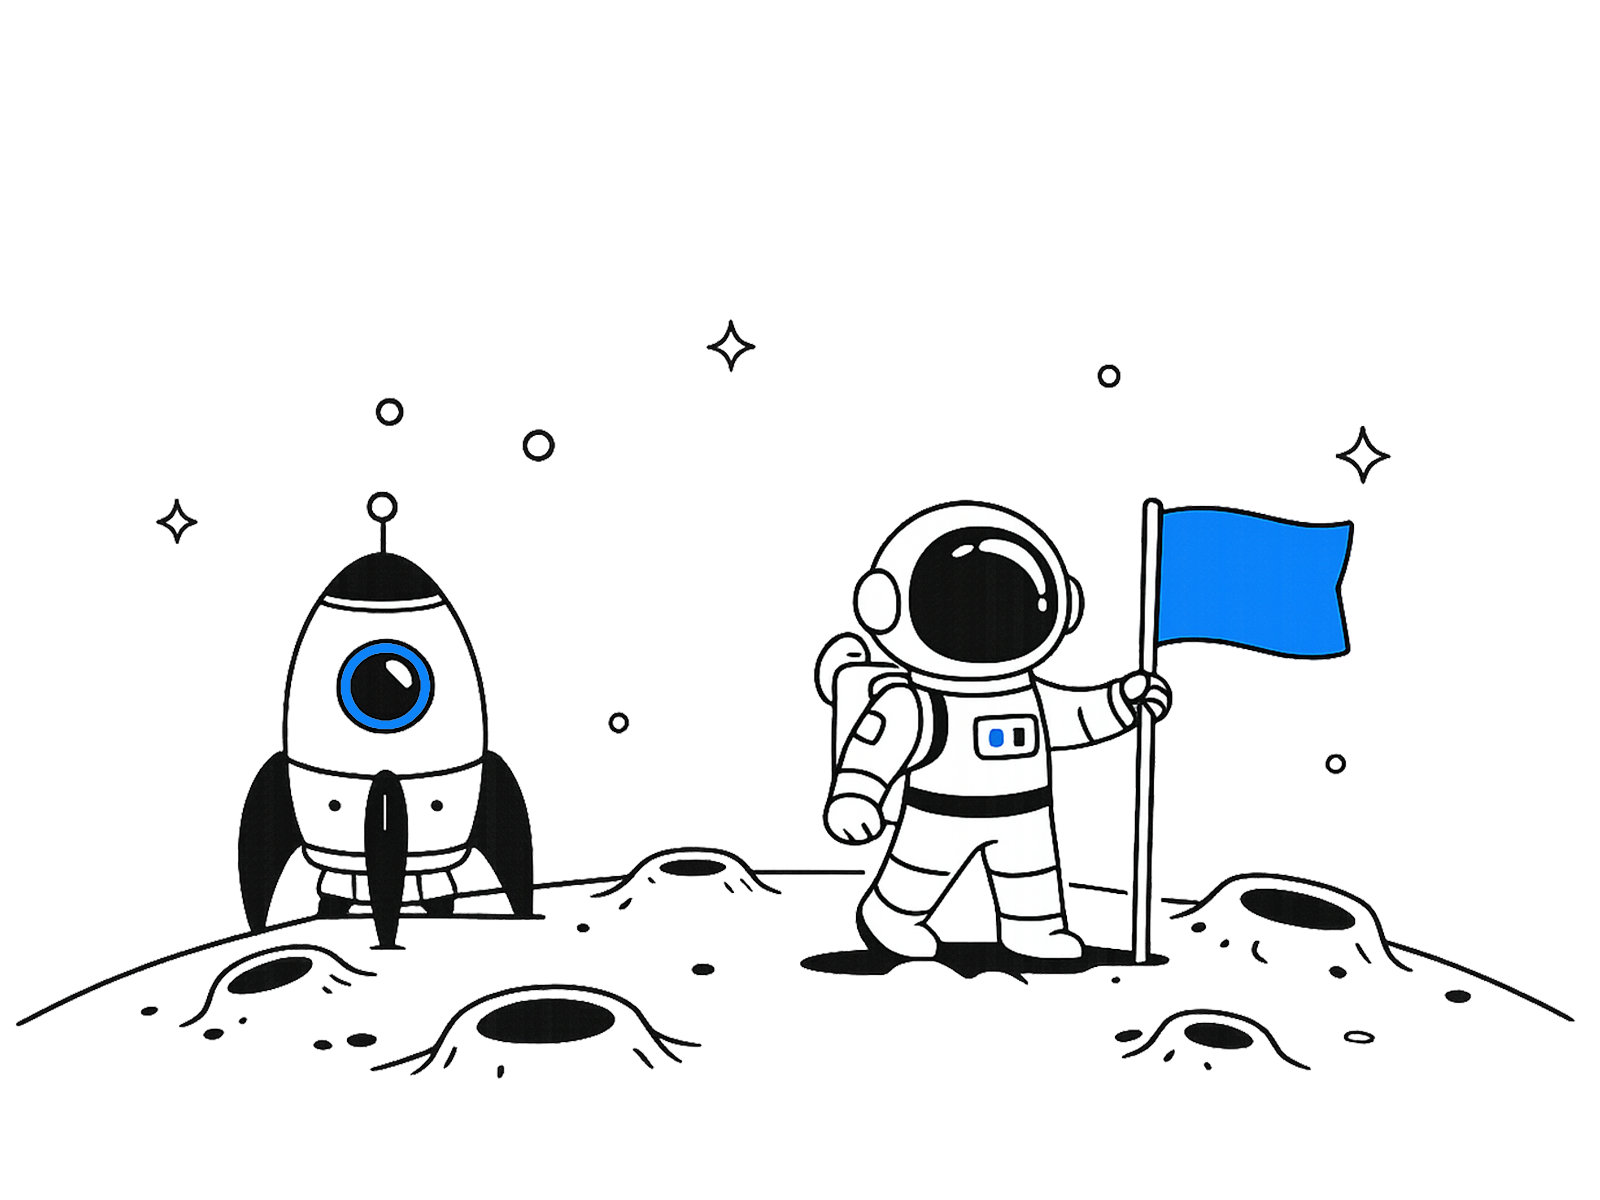
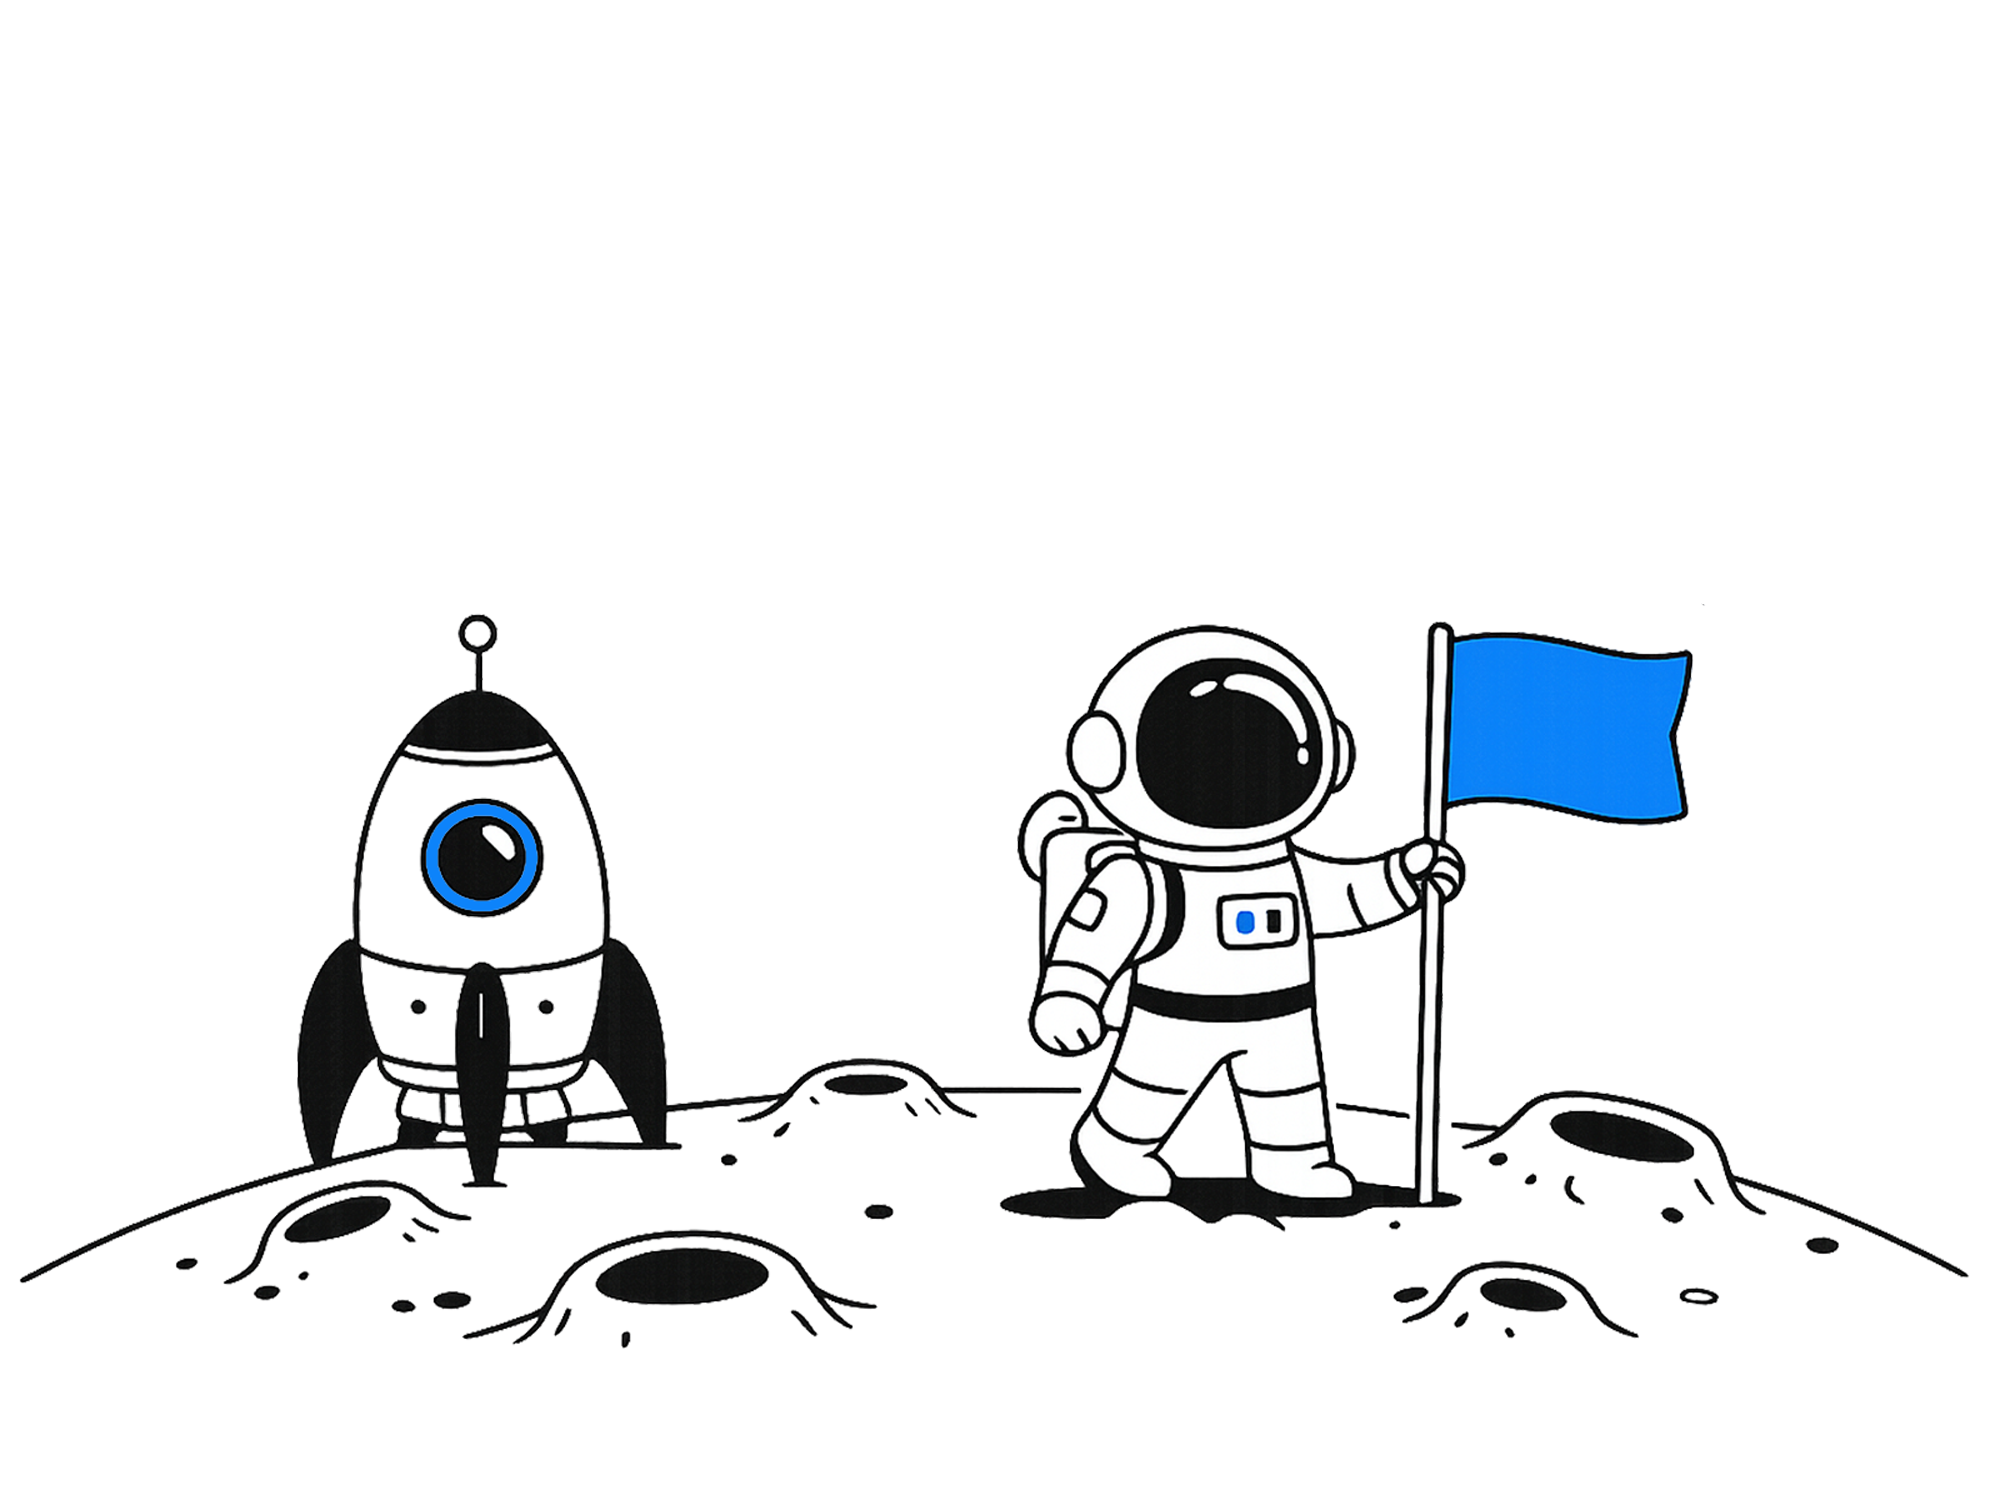
/experiencia: escena Bizagi con 3 capas (luna, estrellas, saturno)

diff --git a/app/experiencia/page.tsx b/app/experiencia/page.tsx
@@ -64,10 +64,27 @@ type Layer = {
 };
 
 const SCENES: Layer[][] = [
-  /* 0 · Bizagi — en la luna, Saturno a lo lejos */
+  /* 0 · Bizagi — en la luna: superficie al frente, estrellas en
+     plano medio y Saturno al fondo */
   [
-    { src: `${ART}/moon.png`, cls: "main", speed: -0.05 },
-    { src: `${ART}/saturno.png`, cls: "far", speed: 0.22 },
+    {
+      src: `${ART}/moon.png`,
+      cls: "free",
+      speed: -0.05,
+      style: { bottom: "-6%", right: "-2%", width: "min(1100px, 88vw)", zIndex: 3 },
+    },
+    {
+      src: `${ART}/estrellas.png`,
+      cls: "free",
+      speed: 0.1,
+      style: { top: "0", left: "0", width: "100%", zIndex: 1, opacity: 0.75 },
+    },
+    {
+      src: `${ART}/saturno.png`,
+      cls: "free",
+      speed: 0.26,
+      style: { top: "5%", left: "6%", width: "clamp(150px, 19vw, 280px)", zIndex: 0, opacity: 0.65 },
+    },
   ],
   /* 1 · Inter Rapidísimo — Saturno grande, astronauta flotando, Tierra al fondo */
   [
